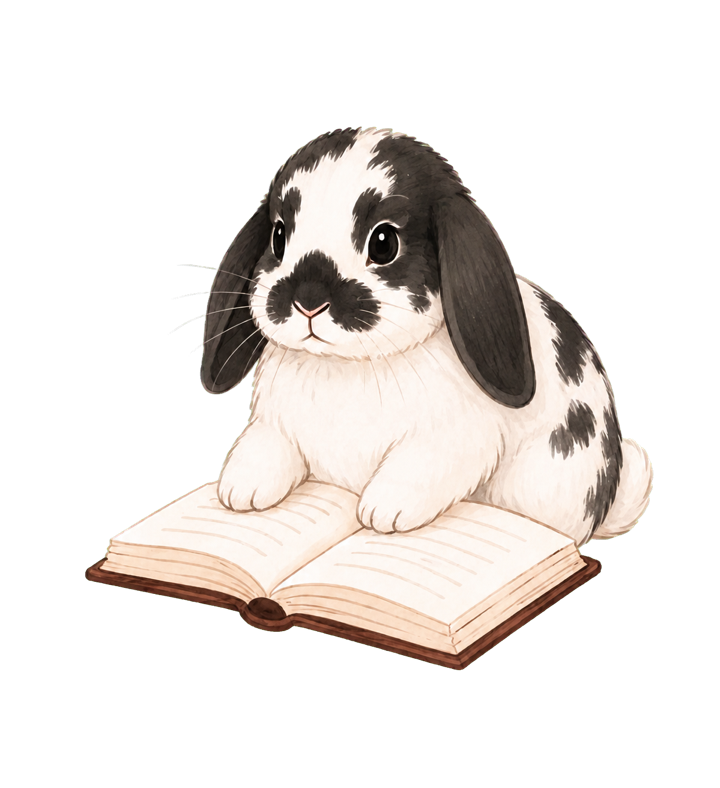
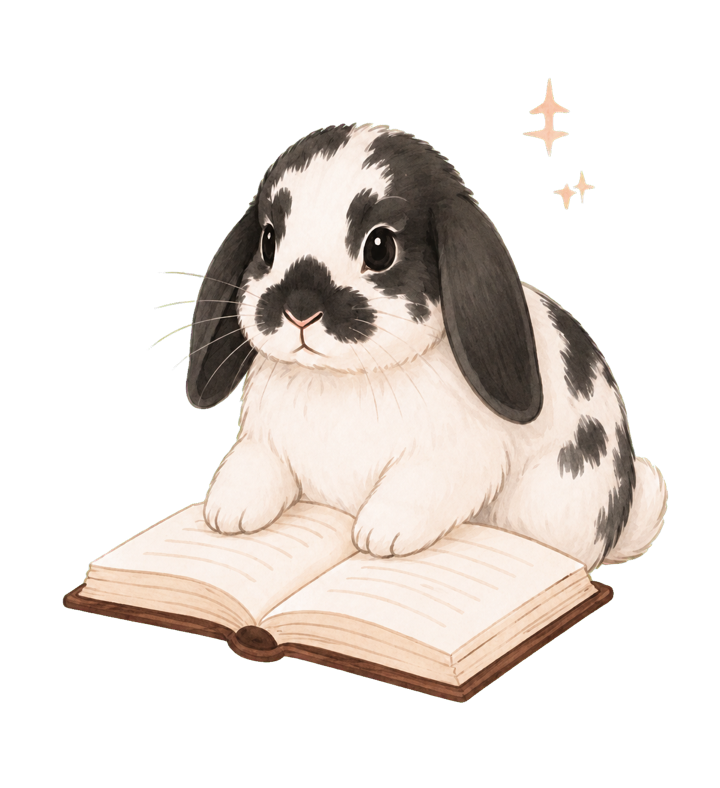
Gate club launch and polish homepage promo

diff --git a/src/styles/club-coming-soon.css b/src/styles/club-coming-soon.css
@@ -1,0 +1,187 @@
+.club-coming-soon {
+  position: relative;
+  display: grid;
+  min-height: min(760px, calc(100vh - 7rem));
+  place-items: center;
+  overflow: hidden;
+  padding: clamp(2.5rem, 7vw, 6rem) 1rem;
+  background:
+    radial-gradient(circle at 8% 12%, rgba(229, 165, 181, 0.34), transparent 29rem),
+    radial-gradient(circle at 92% 88%, rgba(236, 207, 195, 0.6), transparent 26rem),
+    #fdf6f6;
+}
+
+.club-coming-soon__card {
+  position: relative;
+  display: grid;
+  width: min(100%, 980px);
+  grid-template-columns: minmax(0, 1.12fr) minmax(260px, 0.88fr);
+  align-items: center;
+  gap: clamp(1rem, 4vw, 3.5rem);
+  overflow: hidden;
+  padding: clamp(2rem, 5vw, 4.75rem);
+  border: 1px solid rgba(92, 19, 45, 0.12);
+  border-radius: clamp(26px, 4vw, 44px);
+  background: rgba(255, 251, 249, 0.94);
+  box-shadow: 0 28px 70px rgba(60, 9, 25, 0.13);
+}
+
+.club-coming-soon__copy {
+  position: relative;
+  z-index: 2;
+  max-width: 570px;
+}
+
+.club-coming-soon__eyebrow {
+  display: inline-flex;
+  align-items: center;
+  gap: 0.55rem;
+  margin: 0 0 1.15rem;
+  color: #8f294b;
+  font-size: 0.8rem;
+  font-weight: 850;
+  letter-spacing: 0.14em;
+  text-transform: uppercase;
+}
+
+.club-coming-soon__copy h1 {
+  max-width: 650px;
+  margin: 0 0 1rem;
+  color: #3c0919;
+  font-size: clamp(2.15rem, 5vw, 4.25rem);
+  font-weight: 850;
+  letter-spacing: -0.045em;
+  line-height: 0.98;
+  text-wrap: balance;
+}
+
+.club-coming-soon__lead {
+  max-width: 570px;
+  margin: 0;
+  color: #714d59;
+  font-size: clamp(1rem, 2vw, 1.16rem);
+  line-height: 1.65;
+}
+
+.club-coming-soon__notice {
+  display: grid;
+  gap: 0.25rem;
+  margin: 1.75rem 0;
+  padding: 1rem 1.1rem;
+  border-left: 4px solid #c45c7c;
+  border-radius: 4px 14px 14px 4px;
+  background: #f8e6eb;
+  color: #5c132d;
+  line-height: 1.45;
+}
+
+.club-coming-soon__notice strong {
+  font-size: 0.98rem;
+}
+
+.club-coming-soon__notice span {
+  color: #79505e;
+  font-size: 0.9rem;
+}
+
+.club-coming-soon__back {
+  display: inline-flex;
+  min-height: 48px;
+  align-items: center;
+  gap: 0.55rem;
+  padding: 0.7rem 1.1rem;
+  border: 1px solid rgba(60, 9, 25, 0.18);
+  border-radius: 999px;
+  background: #fff;
+  color: #3c0919;
+  font-size: 0.92rem;
+  font-weight: 800;
+  transition: transform 160ms ease, border-color 160ms ease, box-shadow 160ms ease;
+}
+
+.club-coming-soon__back:hover,
+.club-coming-soon__back:focus-visible {
+  border-color: rgba(60, 9, 25, 0.36);
+  transform: translateY(-1px);
+  box-shadow: 0 10px 24px rgba(60, 9, 25, 0.12);
+}
+
+.club-coming-soon__back:focus-visible {
+  outline: 3px solid rgba(196, 92, 124, 0.34);
+  outline-offset: 3px;
+}
+
+.club-coming-soon__visual {
+  position: relative;
+  z-index: 1;
+  display: grid;
+  min-height: 340px;
+  place-items: center;
+}
+
+.club-coming-soon__halo {
+  position: absolute;
+  width: min(100%, 330px);
+  aspect-ratio: 1;
+  border-radius: 50%;
+  background: linear-gradient(145deg, #f7d8df, #f3e4dc);
+}
+
+.club-coming-soon__visual img {
+  position: relative;
+  z-index: 1;
+  width: min(100%, 350px);
+  height: auto;
+  filter: drop-shadow(0 18px 18px rgba(60, 9, 25, 0.13));
+}
+
+@media (max-width: 760px) {
+  .club-coming-soon {
+    min-height: calc(100vh - 5rem);
+    padding: 1.25rem 0.8rem 2.5rem;
+  }
+
+  .club-coming-soon__card {
+    grid-template-columns: 1fr;
+    gap: 0.5rem;
+    padding: 1.5rem 1.25rem 1.75rem;
+    text-align: center;
+  }
+
+  .club-coming-soon__copy {
+    display: flex;
+    flex-direction: column;
+    align-items: center;
+  }
+
+  .club-coming-soon__copy h1 {
+    font-size: clamp(2rem, 10vw, 3.1rem);
+  }
+
+  .club-coming-soon__visual {
+    order: -1;
+    min-height: 190px;
+  }
+
+  .club-coming-soon__halo {
+    width: 195px;
+  }
+
+  .club-coming-soon__visual img {
+    width: 210px;
+    margin-bottom: -1.2rem;
+  }
+
+  .club-coming-soon__notice {
+    width: 100%;
+    border-left: 0;
+    border-top: 4px solid #c45c7c;
+    border-radius: 14px;
+  }
+}
+
+@media (prefers-reduced-motion: reduce) {
+  .club-coming-soon__back {
+    transition: none;
+  }
+}

diff --git a/src/pages/ClubComingSoon.jsx b/src/pages/ClubComingSoon.jsx
@@ -1,0 +1,39 @@
+import { ArrowLeft, Sparkles } from 'lucide-react';
+import { Link } from 'react-router-dom';
+import '../styles/club-coming-soon.css';
+
+const ClubComingSoon = () => (
+  <section className="club-coming-soon" aria-labelledby="club-coming-soon-title">
+    <div className="club-coming-soon__card">
+      <div className="club-coming-soon__copy">
+        <p className="club-coming-soon__eyebrow">
+          <Sparkles aria-hidden="true" size={18} strokeWidth={2} />
+          Zajkológia Klub
+        </p>
+
+        <h1 id="club-coming-soon-title">Klub pre vás práve pripravujeme</h1>
+        <p className="club-coming-soon__lead">
+          Plníme ho článkami, videami, príručkami a ďalším obsahom pre spokojný
+          život s králikmi.
+        </p>
+
+        <div className="club-coming-soon__notice" role="status">
+          <strong>Členstvo ani platby zatiaľ nie sú spustené.</strong>
+          <span>Keď bude klub pripravený, dozviete sa to na tejto stránke.</span>
+        </div>
+
+        <Link className="club-coming-soon__back" to="/">
+          <ArrowLeft aria-hidden="true" size={19} strokeWidth={2.3} />
+          Späť na hlavnú stránku
+        </Link>
+      </div>
+
+      <div className="club-coming-soon__visual" aria-hidden="true">
+        <span className="club-coming-soon__halo" />
+        <img src="/club-rabbit-book.png" width="720" height="788" alt="" />
+      </div>
+    </div>
+  </section>
+);
+
+export default ClubComingSoon;

diff --git a/src/App.jsx b/src/App.jsx
@@ -14,8 +14,7 @@ import ProductPreviewPage from './pages/admin/ProductPreviewPage';
 import { CartProvider } from './cart/CartContext';
 
 const Admin = lazy(() => import('./pages/Admin'));
-const Membership = lazy(() => import('./pages/Membership'));
-const MembershipPost = lazy(() => import('./pages/MembershipPost'));
+const ClubComingSoon = lazy(() => import('./pages/ClubComingSoon'));
 
 const restoreStaticHostPath = () => {
   if (typeof window === 'undefined') return;
@@ -52,8 +51,8 @@ function App() {
               <Route path="cart" element={<CartPage />} />
               <Route path="checkout/success" element={<CheckoutSuccess />} />
               <Route path="downloads/:token" element={<DigitalDownloads />} />
-              <Route path="klub" element={<Membership />} />
-              <Route path="klub/:slug" element={<MembershipPost />} />
+              <Route path="klub" element={<ClubComingSoon />} />
+              <Route path="klub/:slug" element={<ClubComingSoon />} />
               <Route path="o-nas" element={<About />} />
               <Route path="obchodne-podmienky" element={<Terms />} />
               <Route path="odstupenie-od-zmluvy" element={<WithdrawalRequest />} />

diff --git a/src/pages/ClubComingSoon.test.jsx b/src/pages/ClubComingSoon.test.jsx
@@ -1,0 +1,20 @@
+import { render, screen } from '@testing-library/react';
+import { MemoryRouter } from 'react-router-dom';
+import { describe, expect, it } from 'vitest';
+import ClubComingSoon from './ClubComingSoon';
+
+describe('ClubComingSoon', () => {
+  it('clearly blocks the pre-launch club without rendering purchase controls', () => {
+    render(
+      <MemoryRouter>
+        <ClubComingSoon />
+      </MemoryRouter>,
+    );
+
+    expect(screen.getByRole('heading', { name: /klub pre vás práve pripravujeme/i })).toBeInTheDocument();
+    expect(screen.getByText(/členstvo ani platby zatiaľ nie sú spustené/i)).toBeInTheDocument();
+    expect(screen.queryByRole('textbox')).not.toBeInTheDocument();
+    expect(screen.queryByRole('button')).not.toBeInTheDocument();
+    expect(screen.getByRole('link', { name: /späť na hlavnú stránku/i })).toHaveAttribute('href', '/');
+  });
+});

diff --git a/src/styles/home.css b/src/styles/home.css
@@ -88,9 +88,9 @@
 .home-hero-club-card__rabbit {
   position: absolute;
   z-index: 1;
-  right: -1.25rem;
-  bottom: 4.25rem;
-  width: 13.5rem;
+  top: -1rem;
+  right: -0.65rem;
+  width: 11.75rem;
   height: auto;
   pointer-events: none;
   filter: drop-shadow(0 8px 10px rgba(38, 12, 26, 0.22));
@@ -270,9 +270,9 @@
   }
 
   .home-hero-club-card__rabbit {
-    right: -1.15rem;
-    bottom: 3.35rem;
-    width: 9.5rem;
+    top: -0.6rem;
+    right: -0.85rem;
+    width: 9rem;
   }
 
   .home-hero-club-card__features {
@@ -314,8 +314,9 @@
   }
 
   .home-hero-club-card__rabbit {
-    right: -1rem;
-    width: 9.4rem;
+    top: -0.6rem;
+    right: -0.3rem;
+    width: 7.6rem;
   }
 
   .home-hero-club-card__features {

diff --git a/src/pages/Home.jsx b/src/pages/Home.jsx
@@ -14,7 +14,7 @@ import '../styles/products.css';
 const PRODUCTS_CATEGORY_NAME = 'Produkty';
 const PRODUCTS_CARD_ACCENT = '#F8E8D4';
 const CLUB_FEATURES = [
-  { label: 'Edukačné plagáty', icon: <FileText aria-hidden="true" size={22} strokeWidth={1.8} /> },
+  { label: 'Edukačné materiály', icon: <FileText aria-hidden="true" size={22} strokeWidth={1.8} /> },
   { label: 'Videá', icon: <Play aria-hidden="true" size={22} strokeWidth={1.8} /> },
   { label: 'Príručky', icon: <BookOpen aria-hidden="true" size={22} strokeWidth={1.8} /> },
   { label: 'Audioblogy', icon: <Headphones aria-hidden="true" size={22} strokeWidth={1.8} /> },
